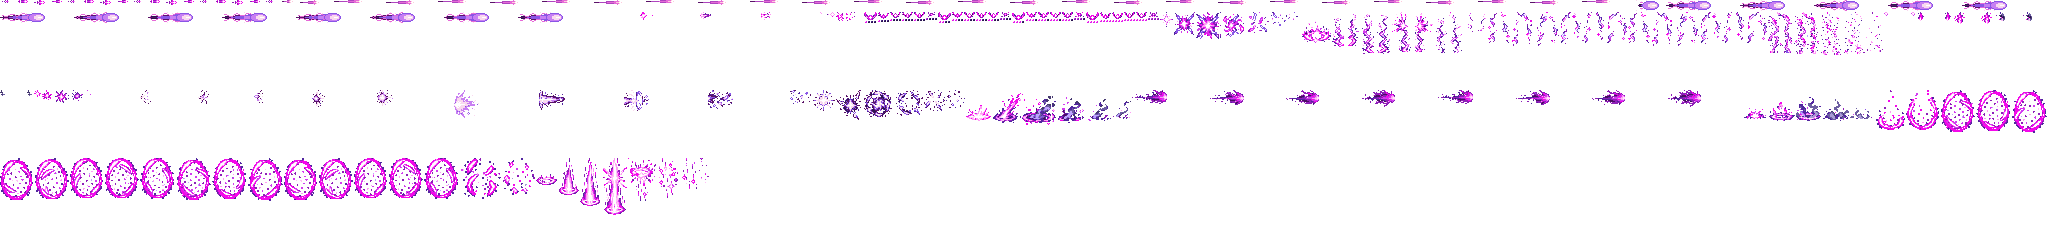
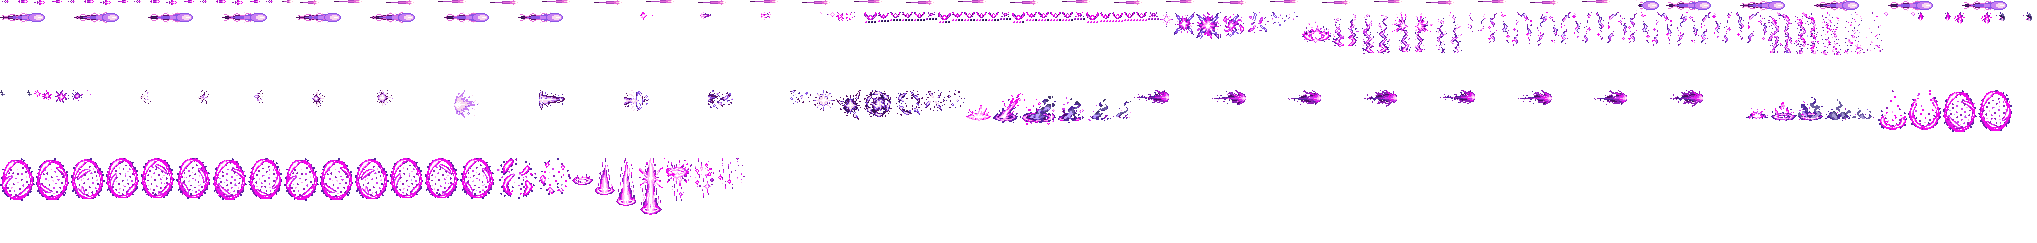
Kai'Sa: W's blast and R's dash trail face the right way on the red side
Both were caster pictures played from a Delayed with is_follow true,
which the client draws mirrored the wrong way for a red-side caster.

- W's blast (250 ms, 17-42 px in front, at tick 23 while she stands):
  is_follow false, mirrored by her facing when it starts.
- R's trail is drawn behind her (-38 to -4 px) and must ride on her
  through the dash, so it keeps is_follow and now plays on the ult's
  first tick, with the 7 ticks before the dash drawn as an empty first
  frame (117 ms) - W's charge waits the same way. The re-exported sheet
  differs only in r_trail (its old frames after the empty one).
  preview_kaisa.py starts it with the ult too.

diff --git a/tools/art/import_kaisa.py b/tools/art/import_kaisa.py
@@ -36,7 +36,9 @@ y_offset -3000 lifts it 8) and starts empty for the 3 ticks it spends inside her
 2 (24 px at 14000), then they loop and hold (`repeat: false`); Q's missiles come out of the pods (y_offset -24000,
 29 px up). W's charge waits for the cannon to come up (170 ms) and burns to the shot (383 ms); W's blast sits
 between the cannon (-16) and its bolt (8 px up). The plasma marks last 1 s over the target's head (the kit plays one
-per hit), the shield 2 s (its 120 ticks), the E arcs 1 s (replayed every second of the attack speed).
+per hit), the shield 2 s (its 120 ticks), the E arcs 1 s (replayed every second of the attack speed). R's dash trail
+plays with the ult's first tick and stays empty for the 7 ticks before the dash (117 ms): played from the dash's
+Delayed, a following picture is mirrored the wrong way for a red-side caster.
 Writes league/effects/league_kaisa_fx.
 """
 import argparse
@@ -442,7 +444,9 @@ FX = {
     "w_muzzle": [("w_muzzle", seq(range(5), [30, 40, 50, 60, 70]), [BLAST])],
     "w_hit": [("w_hit", seq(range(6), [50, 60, 70, 80, 90, 100]), [HIT])],
     "r_launch": [("r_launch", seq(range(6), [50, 60, 70, 80, 90, 100]), [SOLES])],
-    "r_trail": [("r_trail", seq([0, 1, 2, 3] * 2, [40] * 8), [TRAIL])],
+    # played at the ult's start (a following picture played later is mirrored the wrong way on the red side): empty
+    # for the 7 ticks before the dash
+    "r_trail": [("r_trail", [(None, round(7 * TICK))] + seq([0, 1, 2, 3] * 2, [40] * 8), [TRAIL])],
     "r_land": [("r_land", seq(range(5), [50, 60, 70, 80, 90]), [SOLES])],
     "r_shield": [("r_shield", seq([0, 1] + list(range(2, 10)) * 2 + [10, 11], [60, 60] + [100] * 16 + [100, 100]),
                   [SOLES])],

diff --git a/tools/art/preview_kaisa.py b/tools/art/preview_kaisa.py
@@ -172,7 +172,7 @@ def showcase(out, z=3, step=40):
     gx, _ = g.pos(rl)
     to = gx - 16
     fly_ms = tick(max(1.0, (to - x) / DASH))
-    flash("r_trail", rl)
+    flash("r_trail", r0)                    # played on the ult's first tick, empty for the 7 ticks before the dash
     a("ult_dash", fly_ms, loop=True, to=to)
     landed = t
     flash("r_land", landed)

diff --git a/assets/source/kaisa/PROMPTS.md b/assets/source/kaisa/PROMPTS.md
@@ -254,10 +254,10 @@ Layout: one horizontal row of 8 equal cells, each 7 wide to 12 tall, image size 
 | `kaisa_fx_q_pod` | view_effects `league_kaisa_q_cast`（Claude 把它放到两个翼舱的光眼上） | 12 |
 | `kaisa_fx_q_hit` | view_effects `league_kaisa_q_hit`（跟随） | 14 |
 | `kaisa_fx_w_charge` | view_effects `league_kaisa_w_charge`（跟随，放在炮口） | 14 × 12 |
-| `kaisa_fx_w_muzzle` | view_effects `league_kaisa_w_muzzle`（跟随，放在炮口） | 20 × 14 |
+| `kaisa_fx_w_muzzle` | view_effects `league_kaisa_w_muzzle`（不跟随：动作中途播放，跟随的话红色方会画反；放在炮口） | 20 × 14 |
 | `kaisa_fx_w_hit` | view_effects `league_kaisa_w_hit`（跟随） | 22 |
 | `kaisa_fx_r_launch` | view_effects `league_kaisa_r_launch`（不跟随，留在原地） | 28 × 18 |
-| `kaisa_fx_r_trail` | view_effects `league_kaisa_r_trail`（跟随，冲刺时播放） | 36 × 16 |
+| `kaisa_fx_r_trail` | view_effects `league_kaisa_r_trail`（跟随；大招第一个 tick 播放，冲刺前的 7 tick 是空帧） | 36 × 16 |
 | `kaisa_fx_r_land` | view_effects `league_kaisa_r_land`（跟随） | 26 × 14 |
 | `kaisa_fx_r_shield` | view_effects `league_kaisa_r_shield`（跟随） | 30 × 42 |
 | `kaisa_fx_evolve` | view_effects `league_kaisa_evolve`（跟随） | 28 × 48 |
